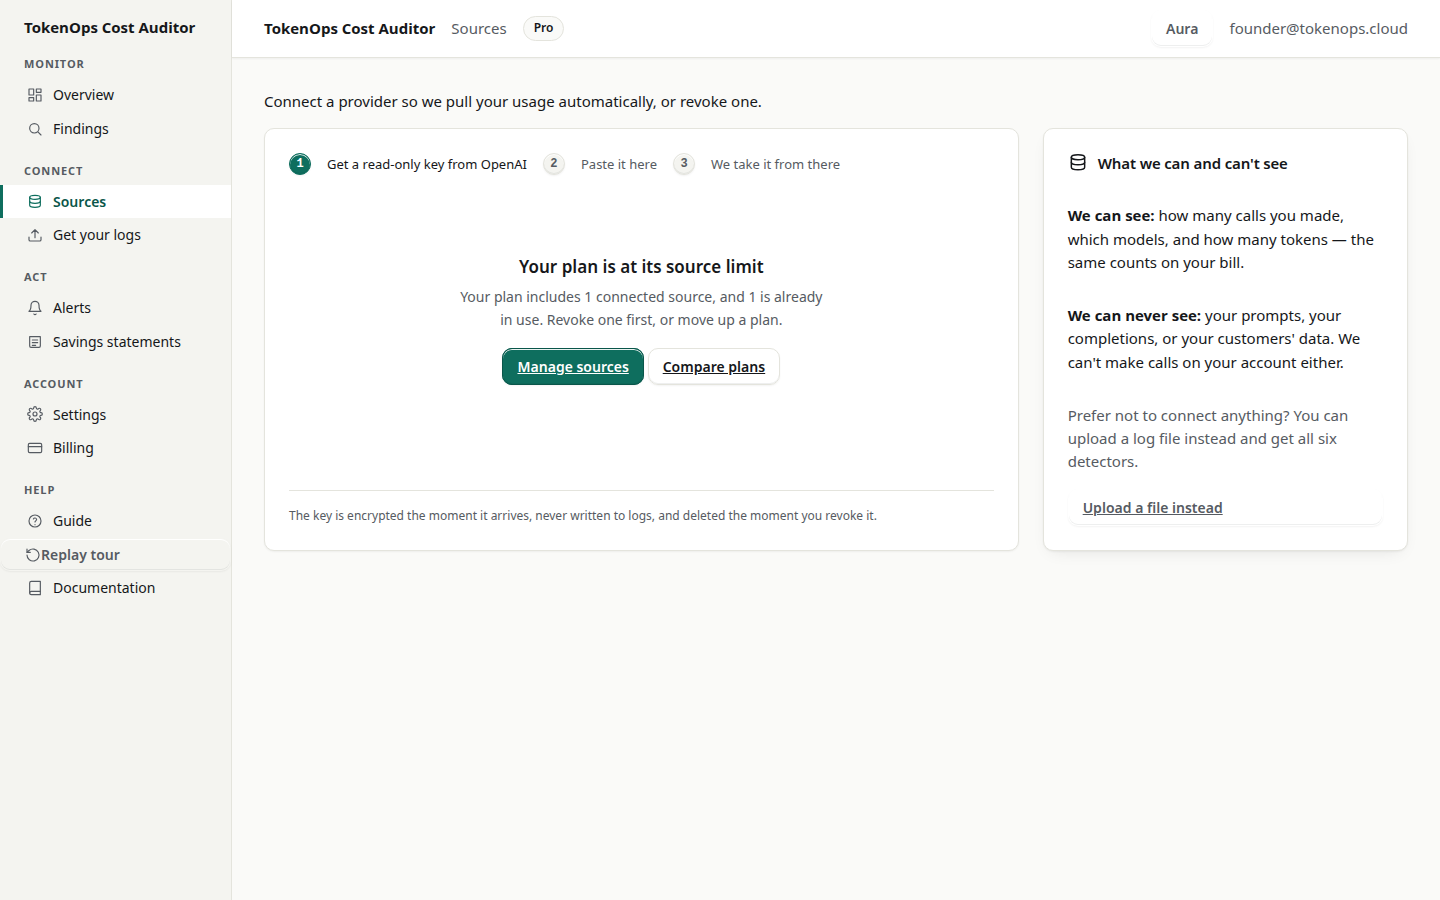
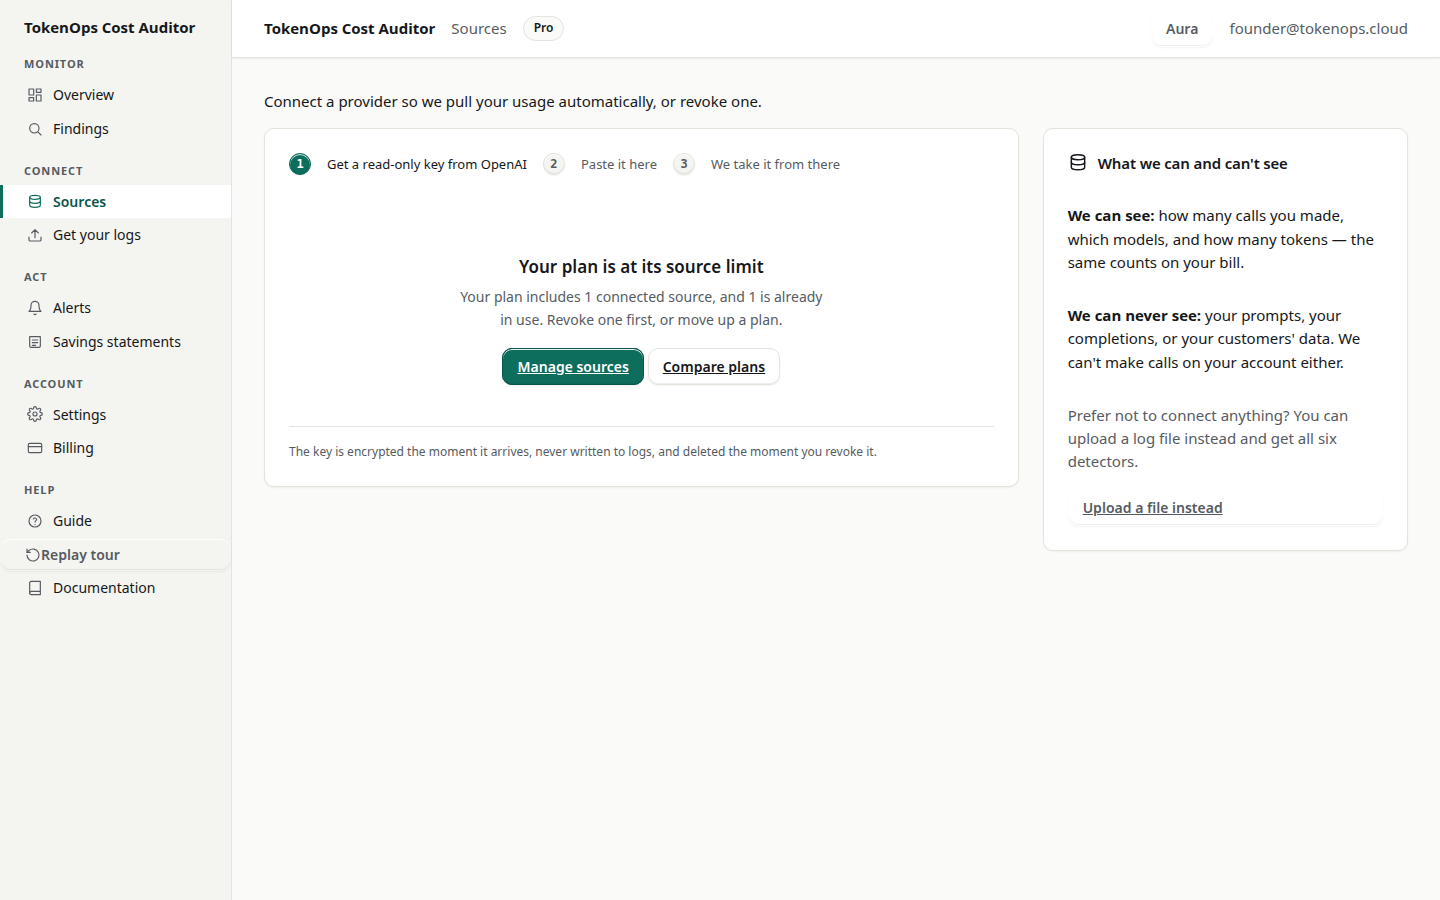
design: close the F7 gate note — wizard panel takes content height
The at-limit void survived the empty_state because the grid stretched the
panel to the side column's height. align-items:start; asserted in the
capture (main < side); after-shot refreshed.

Changed region(s): [[0.1875, 0.56, 0.5938, 0.5911], [0.2188, 0.4978, 0.5938, 0.5289]]

diff --git a/src/tokenops_cost_auditor/web/templates/app/connect_wizard.html b/src/tokenops_cost_auditor/web/templates/app/connect_wizard.html
@@ -1,7 +1,10 @@
 {% extends "app/_shell.html" %}
 {% block title %}Connect {{ copy.provider_name }} — TokenOps Cost Auditor{% endblock %}
 {% block content %}
-<div class="grid">
+<div class="grid" style="align-items: start">
+  {# align-items:start — audit F7: the wizard panel must take its content's
+     height, not stretch to the side panel's; at-limit was a message floating
+     in a phantom-height void. #}
   <section class="widget w-8">
     {# Breadcrumbs: the step's purpose stated in a sentence (R-DESIGN-V3 §2d) #}
     <div class="steps-bar" aria-label="Connect {{ copy.provider_name }}, step 1 of 3">
